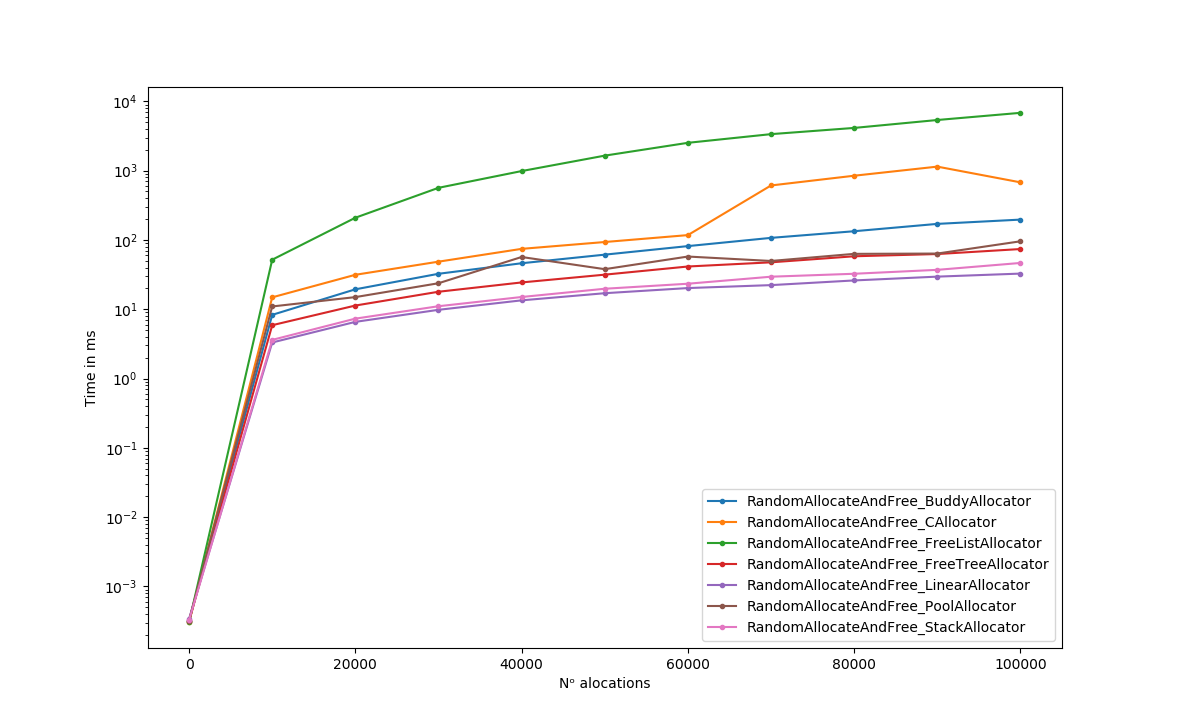
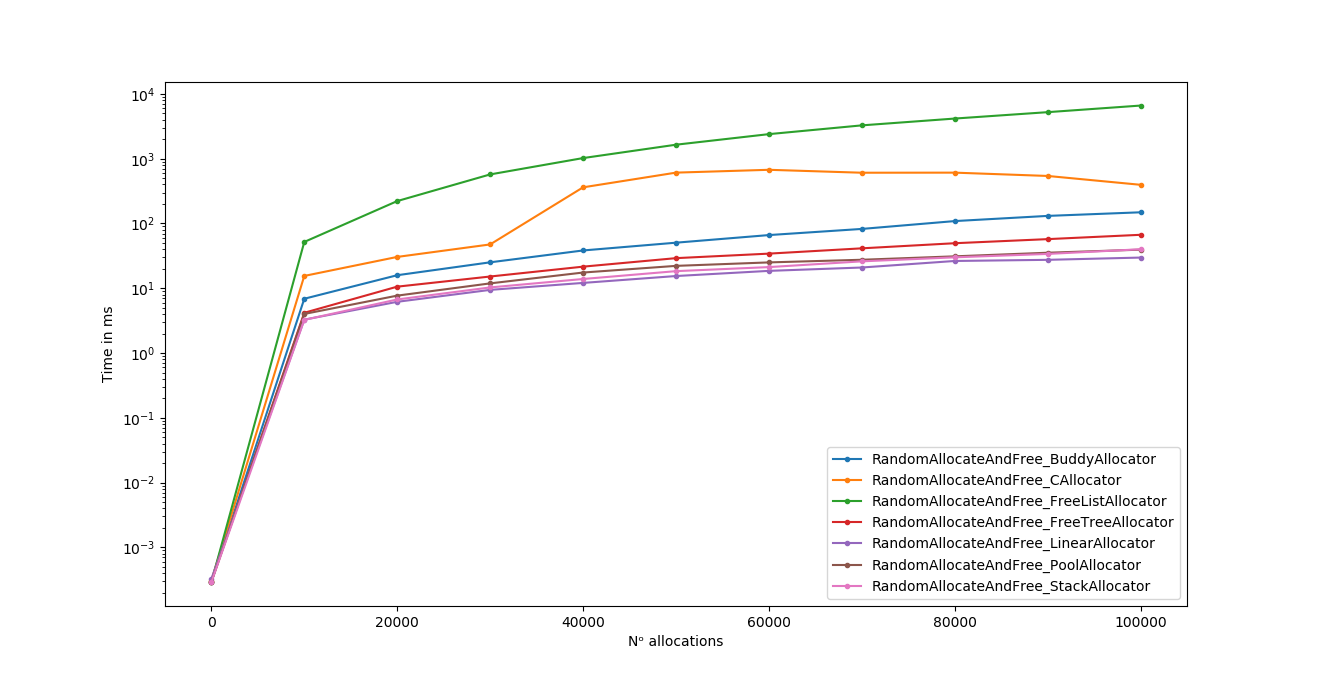
update Figure3 image chart

diff --git a/benchmark/Allocations.cpp b/benchmark/Allocations.cpp
@@ -63,7 +63,7 @@ static void BenchmarkMultieRandomAllocationsAndFrees(A5::Allocator* alloc, bench
 			void* address;
 			address = alloc->Allocate(s_RandomSizes[i], s_MaxAlignment);
 			state.PauseTiming();
-			if (it != s_DeallocationIndices .end() && *it == i)
+			if (it != s_DeallocationIndices.end() && *it == i)
 			{
 				addresses.push_back(address);
 				++it;
@@ -109,12 +109,13 @@ static void BenchmarkMultieFixedAllocationsAndFrees(A5::Allocator* alloc, benchm
 		{
 			alloc->Deallocate(addresses[i]);
 		}
-		for (std::size_t i = 0; i < state.range(0); ++i)
+		for (std::size_t i = 0; i < addresses.size(); ++i)
 		{
 			benchmark::DoNotOptimize(alloc->Allocate(size, s_MaxAlignment));
 		}
 		state.PauseTiming();
-		alloc->Reset();
+		if (state.range(0) != 0)
+			alloc->Reset();
 		addresses.clear();
 		it = s_DeallocationIndices.begin();
 		state.ResumeTiming();
@@ -159,7 +160,7 @@ static void Allocate_StackAllocator(benchmark::State& state)
 
 static void Allocate_PoolAllocator(benchmark::State& state)
 {
-	A5::PoolAllocator alloc(s_1GB, s_MaxBlockSize, true);
+	A5::PoolAllocator alloc(s_1GB, s_MaxBlockSize, false);
 	BenchmarkMultipleFixedAllocations(&alloc, state, s_MaxBlockSize);
 	state.SetBytesProcessed(int64_t(state.iterations()) * state.range(0) * s_MaxBlockSize);
 }
@@ -317,7 +318,7 @@ static void RandomAllocateAndFree_StackAllocator(benchmark::State& state)
 
 static void RandomAllocateAndFree_PoolAllocator(benchmark::State& state)
 {
-	A5::PoolAllocator alloc(s_1GB, s_MaxBlockSize, true);
+	A5::PoolAllocator alloc(s_1GB, s_MaxBlockSize, false);
 	BenchmarkMultieFixedAllocationsAndFrees(&alloc, state, s_MaxBlockSize);
 	state.SetBytesProcessed(int64_t(state.iterations()) * state.range(0) * s_MaxBlockSize);
 }
